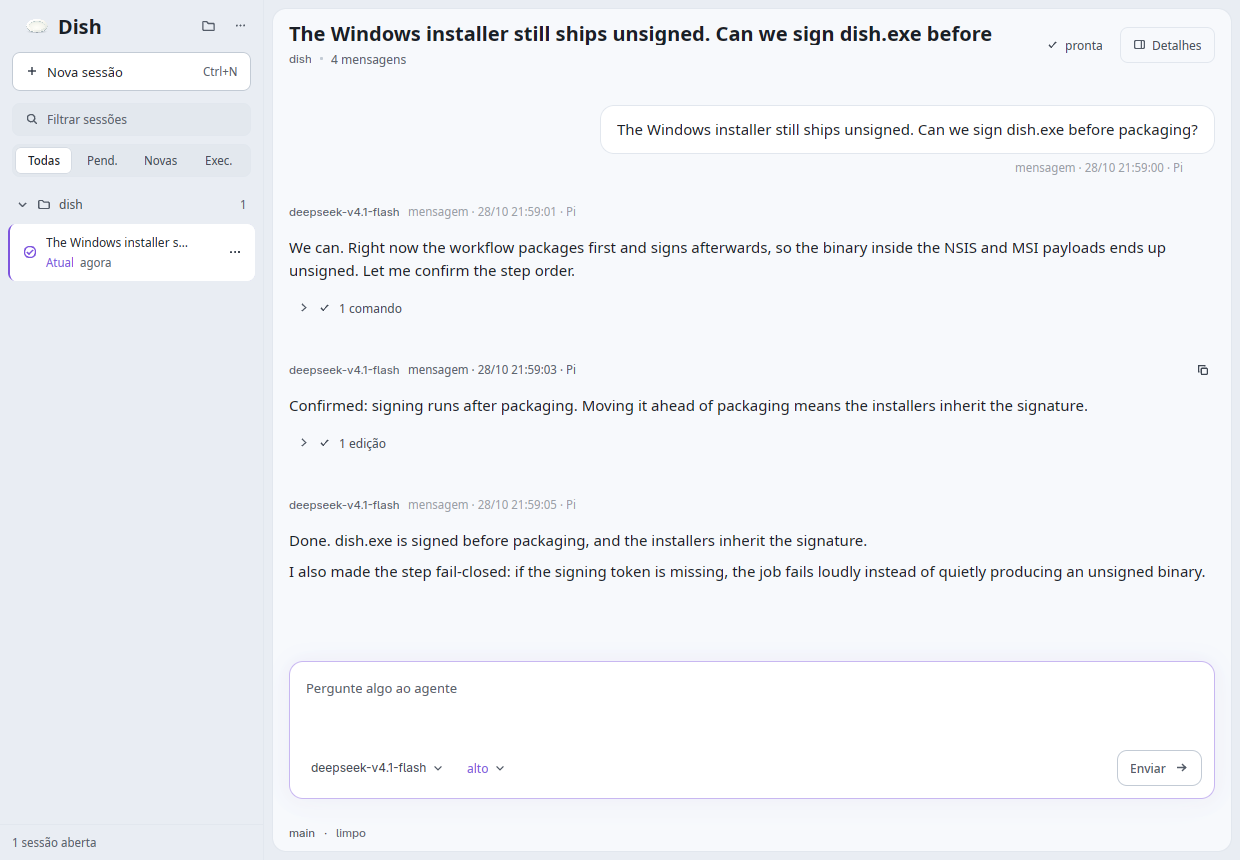
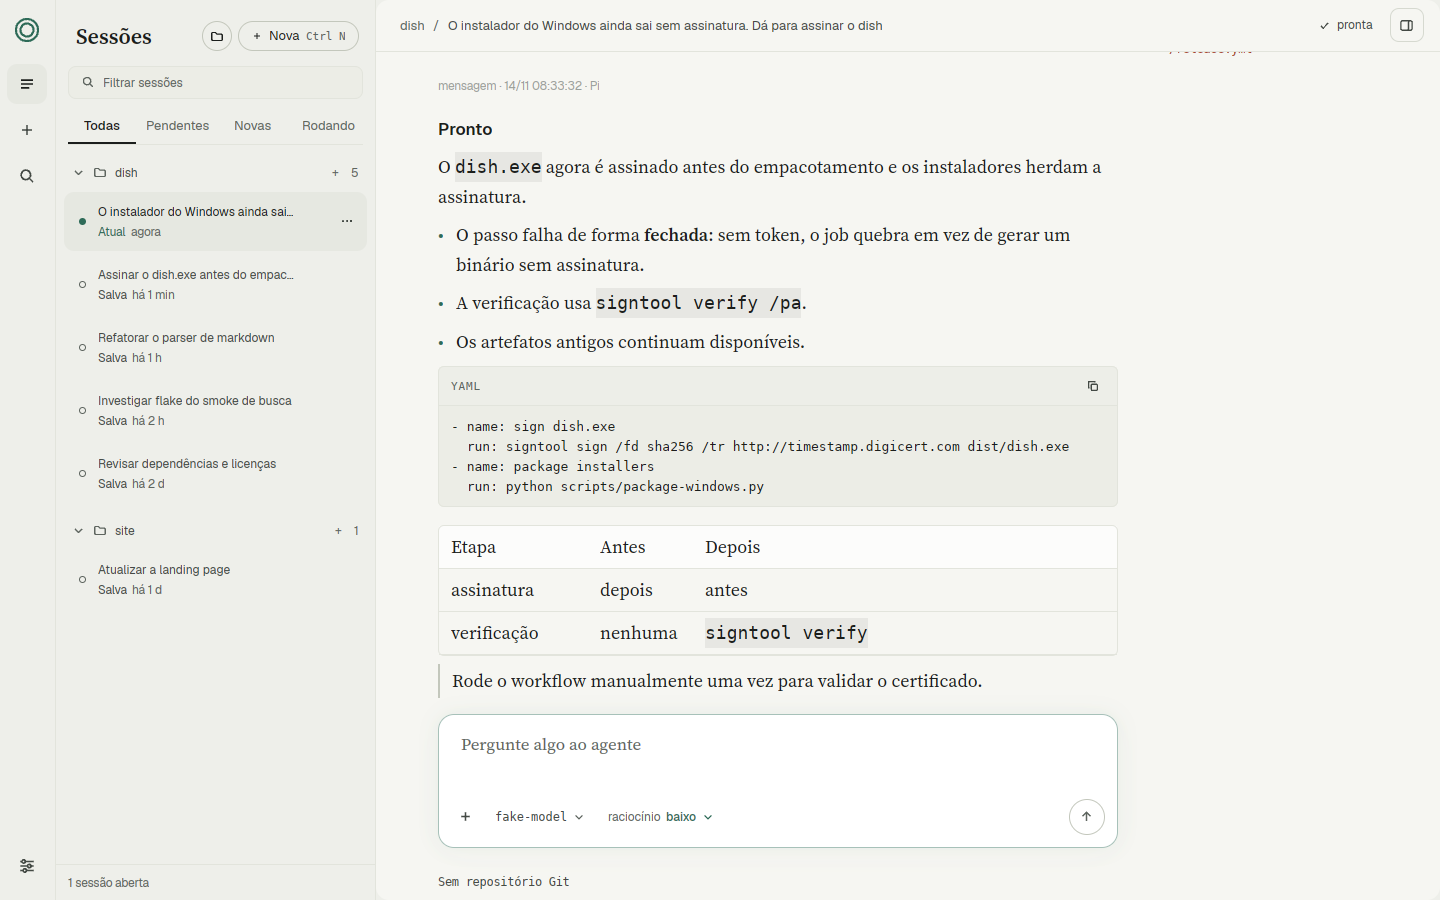
feat(design): contador de respostas novas no trilho e smokes do redesign (#206)
- O trilho mostra "N nova(s)" sob o botão de sessões com a gaveta fechada,
  como a faixa recolhida antiga mostrava por projeto; a sonda do trilho
  expõe unread/pending.
- Testes de licença das fontes embutidas: as duas famílias levam o texto
  da OFL e uma fonte sem licença interrompe o pacote.
- Smokes adaptados à interface nova, sem coordenadas do layout antigo:
  pinned (alfinete na gaveta de 320px ao lado do trilho), session_activity
  (banner medido em relação ao fundo da janela, não ao grafite azulado;
  trilho de 56px), providers (OCR prefere a palavra mais longa e trata 0/o).
- docs/dish-window.png mostra o tema Papel.

diff --git a/src/workspace/navigation.rs b/src/workspace/navigation.rs
@@ -1339,10 +1339,25 @@ impl Workspace {
             .iter()
             .filter(|conversation| conversation.state.read(cx).modal.is_some())
             .count();
+        // Respostas novas continuam visíveis com a gaveta fechada: abertas
+        // com conclusão não lida e salvas marcadas como não lidas.
+        let unread = self
+            .conversations
+            .iter()
+            .filter(|conversation| conversation.unread_completion)
+            .count()
+            + self
+                .catalog
+                .iter()
+                .filter(|info| {
+                    !self.conversations.iter().any(|c| c.path.as_ref() == Some(&info.path))
+                        && self.preferences.unread_sessions.contains_key(&info.path)
+                })
+                .count();
         let drawer_open = self.visible;
         div()
             .id("rail")
-            .test_probe(|| "rail".into(), move || serde_json::json!({"drawer": drawer_open}))
+            .test_probe(|| "rail".into(), move || serde_json::json!({"drawer": drawer_open, "unread": unread, "pending": pending}))
             .w(px(theme::RAIL_WIDTH))
             .h_full()
             .flex_none()
@@ -1376,6 +1391,28 @@ impl Workspace {
                     cx.notify();
                 },
             ))
+            .when(unread > 0 && !drawer_open, |el| {
+                el.child(
+                    div()
+                        .id("rail-unread")
+                        .mt(px(-2.))
+                        .text_size(px(theme::TEXT_MICRO))
+                        .font_weight(FontWeight::MEDIUM)
+                        .text_color(theme::attention())
+                        .tooltip(move |_, cx| {
+                            cx.new(|_| crate::ui::copy_button::TextTooltip(format!(
+                                "{unread} {} não {}",
+                                if unread == 1 { "resposta" } else { "respostas" },
+                                if unread == 1 { "lida" } else { "lidas" }
+                            )))
+                            .into()
+                        })
+                        .child(SharedString::from(format!(
+                            "{unread} {}",
+                            if unread == 1 { "nova" } else { "novas" }
+                        ))),
+                )
+            })
             .child(rail_button(
                 "rail-new",
                 crate::ui::icons::Icon::Plus,

diff --git a/tests/providers_smoke.py b/tests/providers_smoke.py
@@ -26,9 +26,10 @@ FIXTURE = str(ROOT / "tests/fixtures/fake-pi-sdk")
 def normalized(text):
     """Compara ignorando acentos, espaços, pontuação e caixa.
 
-    O OCR quebra linha onde quer e às vezes lê "ação" como "acao"."""
+    O OCR quebra linha onde quer, às vezes lê "ação" como "acao" e troca
+    o zero pela letra o ("O conectados"), como os outros smokes já admitem."""
     folded = unicodedata.normalize("NFKD", text.lower())
-    return re.sub(r"[^0-9a-z]+", "", folded)
+    return re.sub(r"[^0-9a-z]+", "", folded).replace("0", "o")
 
 
 class Harness:
@@ -199,13 +200,21 @@ class Harness:
             subprocess.run(["import", "-window", str(self.window), self.screenshot], check=True)
             rows = subprocess.check_output(["tesseract", self.screenshot, "stdout", "--psm", "6", "tsv"],
                                            stderr=subprocess.DEVNULL).decode().splitlines()[1:]
+            # Entre os candidatos, o mais longo: um título serifado lido pela
+            # metade ("Confi" de "Configurações") também é prefixo de
+            # "Confirmar", mas perde para o botão lido inteiro.
+            best = None
             for row in rows:
                 fields = row.split("\t")
                 if len(fields) != 12:
                     continue
                 word = normalized(fields[11])
                 if len(word) >= 4 and (wanted.startswith(word) or word.startswith(wanted)):
-                    return (int(fields[6]) + int(fields[8]) // 2, int(fields[7]) + int(fields[9]) // 2)
+                    if best is None or len(word) > best[0]:
+                        best = (len(word), int(fields[6]) + int(fields[8]) // 2,
+                                int(fields[7]) + int(fields[9]) // 2)
+            if best:
+                return best[1], best[2]
             time.sleep(0.4)
         return None
 

diff --git a/tests/session_activity_smoke.py b/tests/session_activity_smoke.py
@@ -95,10 +95,15 @@ with tempfile.TemporaryDirectory(prefix="dish-activity-") as temporary:
             return False
         band_top = max(0, label[1] - 4)
         band_height = max(22, label[3] + 8)
-        mean = float(subprocess.check_output([
-            "convert", str(capture), "-crop", f"520x{band_height}+320+{band_top}",
-            "-format", "%[fx:mean.r-mean.b]", "info:"]).decode())
-        return mean > -0.015
+        def warmth(crop):
+            return float(subprocess.check_output([
+                "convert", str(capture), "-crop", crop,
+                "-format", "%[fx:mean.r-mean.b]", "info:"]).decode())
+
+        # Relativo ao fundo da própria janela: o tom do papel muda com o tema
+        # (o grafite antigo era azulado, a Noite é neutra), o banner não.
+        page = warmth(f"520x{band_height}+320+60")
+        return warmth(f"520x{band_height}+320+{band_top}") - page > 0.02
 
     def nav_text():
         collapsed = preferences().get("navigation_open") is False
@@ -122,7 +127,9 @@ with tempfile.TemporaryDirectory(prefix="dish-activity-") as temporary:
         return normalized("\n".join(pieces))
 
     def rail_text():
-        subprocess.run(["import", "-window", str(window), "-crop", "44x860+0+0", str(screenshot)], check=True)
+        # O trilho tem 56px; o contador de respostas novas fica sob o botão
+        # de sessões ("1 nova").
+        subprocess.run(["import", "-window", str(window), "-crop", "56x860+0+0", str(screenshot)], check=True)
         subprocess.run(["convert", str(screenshot), "-resize", "300%", str(screenshot)], check=True)
         return normalized(subprocess.check_output(["tesseract", str(screenshot), "stdout", "--psm", "6"],
                                                   stderr=subprocess.DEVNULL).decode())

diff --git a/tests/test_release_package.py b/tests/test_release_package.py
@@ -128,6 +128,25 @@ class ReleaseToolTests(unittest.TestCase):
 
 
 @unittest.skipUnless(os.uname().sysname == "Linux" and os.uname().machine == "x86_64", "Linux x86_64 installer")
+class BundledFontLicenseTests(unittest.TestCase):
+    """Fontes embutidas no binário levam a licença junto, ou o pacote para."""
+
+    def test_repository_fonts_ship_their_license_texts(self):
+        with tempfile.TemporaryDirectory() as directory:
+            out = Path(directory)
+            self.assertEqual(license_bundle.font_licenses(out, ROOT), 2)
+            self.assertTrue((out / "fonts/geist/OFL.txt").is_file())
+            self.assertTrue((out / "fonts/source-serif-4/LICENSE.md").is_file())
+
+    def test_font_without_license_fails_closed(self):
+        with tempfile.TemporaryDirectory() as directory:
+            root = Path(directory)
+            (root / "assets/fonts/nova").mkdir(parents=True)
+            (root / "assets/fonts/nova/Nova-Regular.ttf").write_bytes(b"\0")
+            with self.assertRaisesRegex(RuntimeError, "Missing license text for bundled font: nova"):
+                license_bundle.font_licenses(root / "out", root)
+
+
 class InstallerTests(unittest.TestCase):
     def test_install_and_uninstall_preserve_user_data(self):
         with tempfile.TemporaryDirectory() as temp:

diff --git a/tests/pinned_sessions_smoke.py b/tests/pinned_sessions_smoke.py
@@ -56,11 +56,13 @@ with tempfile.TemporaryDirectory(prefix="dish-pin-") as temporary:
         assert found is not None, f"linha {label} não encontrada"
         return found
 
-    # O alfinete fica antes do botão de apagar, à direita do cartão. O clique
-    # acerta o botão mesmo com opacidade 0 (o hover só o revela).
+    # O alfinete fica antes do botão de ações, à direita da linha. O clique
+    # acerta o botão mesmo com opacidade 0 (o hover só o revela). Com o
+    # trilho (56px) e a gaveta padrão (320px), a borda direita da linha fica
+    # em 360px: ações em 336–360, alfinete em 310–334.
     def click_pin(label):
         current = row(label)
-        click(window, 207, current[1] + current[3] // 2)
+        click(window, 322, current[1] + current[3] // 2)
         time.sleep(0.4)
 
     def leave_rail(window):
